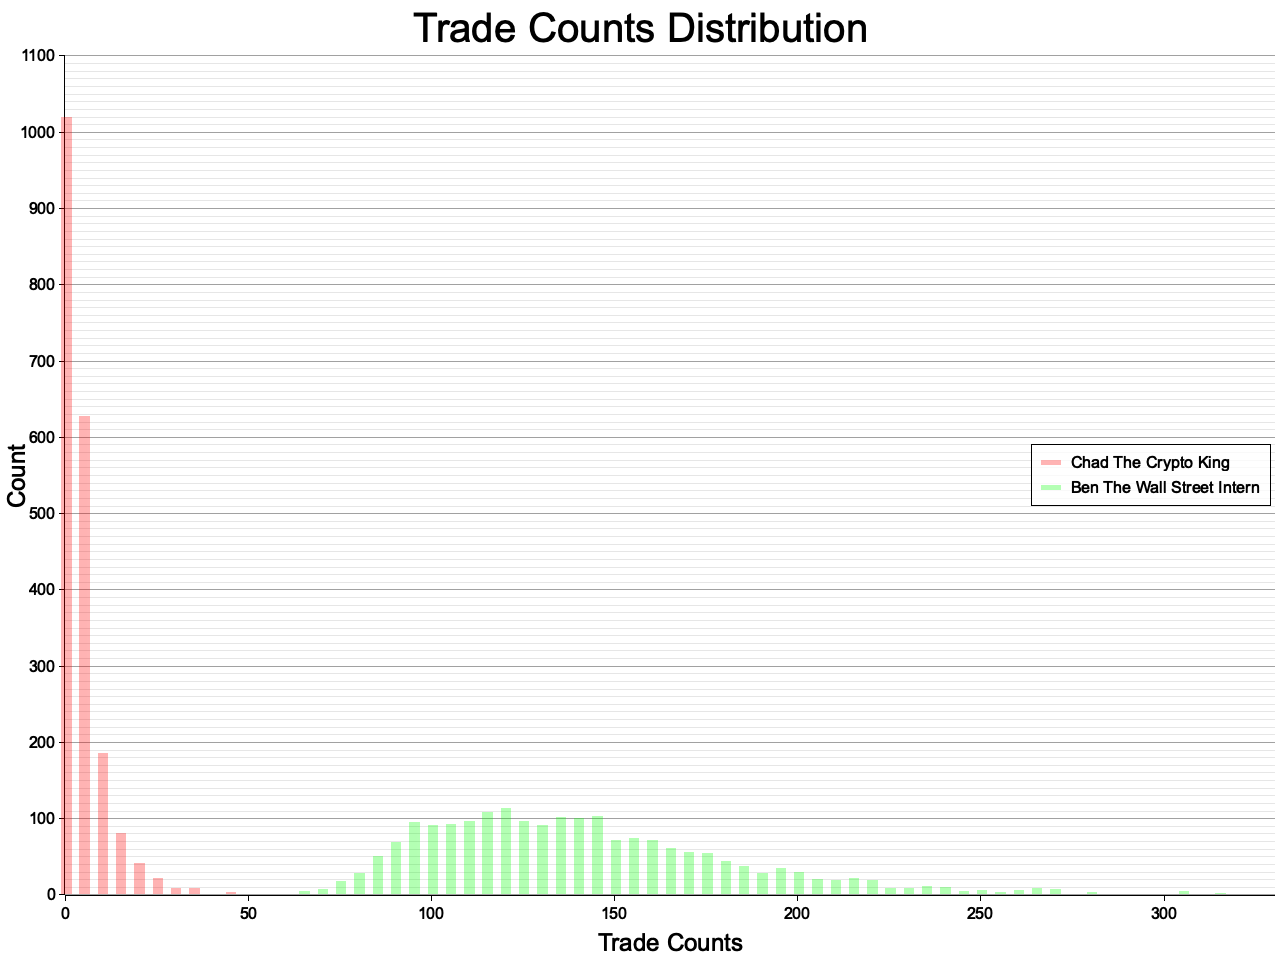
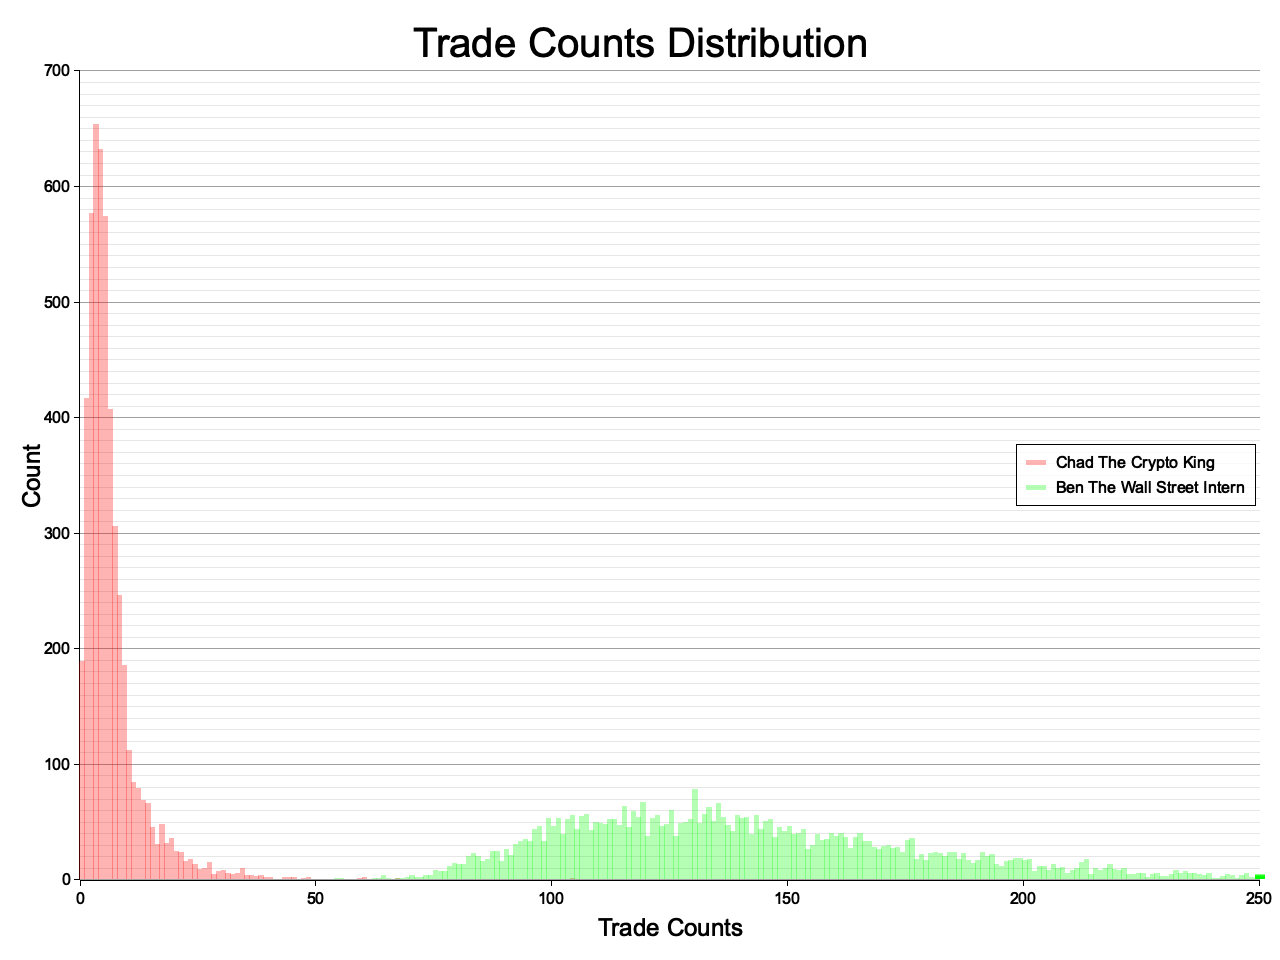
fix graphs

Changed region(s): [[0.0, 0.0, 1.0, 1.0]]

diff --git a/stats/src/main.rs b/stats/src/main.rs
@@ -32,9 +32,9 @@ fn draw_networth_histogram(data: HashMap<String, Vec<AgentRunStats>>) -> () {
     let mut chart = ChartBuilder::on(&draw_area)
         .x_label_area_size(60)
         .y_label_area_size(60)
-        .margin(5)
+        .margin(20)
         .caption("Networth Distribution", ("sans-serif", 50.0))
-        .build_cartesian_2d((0u32..75000u32).into_segmented(), 0u32..170u32)
+        .build_cartesian_2d(0u32..40000u32, 0u32..800u32)
         .unwrap();
 
     chart
@@ -55,12 +55,12 @@ fn draw_networth_histogram(data: HashMap<String, Vec<AgentRunStats>>) -> () {
         chart
             .draw_series(
                 Histogram::vertical(&chart)
-                    .margin(3)
+                    .margin(12)
                     .style(get_color(key).filled())
                     .data(
                         value
                             .iter()
-                            .map(|x| (round_to_precision(x.net_worth as u32, 500), 1)),
+                            .map(|x| (round_to_precision(x.net_worth as u32, 1000), 1)),
                     ),
             )
             .unwrap()
@@ -96,9 +96,9 @@ fn draw_trade_counts_histogram(data: HashMap<String, Vec<AgentRunStats>>) -> () 
     let mut chart = ChartBuilder::on(&draw_area)
         .x_label_area_size(60)
         .y_label_area_size(60)
-        .margin(5)
+        .margin(20)
         .caption("Trade Counts Distribution", ("sans-serif", 50.0))
-        .build_cartesian_2d(0u32..330u32, 0u32..1100u32)
+        .build_cartesian_2d(0u32..250u32, 0u32..700u32)
         .unwrap();
 
     chart
@@ -119,12 +119,12 @@ fn draw_trade_counts_histogram(data: HashMap<String, Vec<AgentRunStats>>) -> () 
         chart
             .draw_series(
                 Histogram::vertical(&chart)
-                    .margin(7)
+                    .margin(5)
                     .style(get_color(key).filled())
                     .data(
                         value
                             .iter()
-                            .map(|x| (round_to_precision(x.trade_count as u32, 5), 1)),
+                            .map(|x| (x.trade_count as u32, 1)),
                     ),
             )
             .unwrap()
